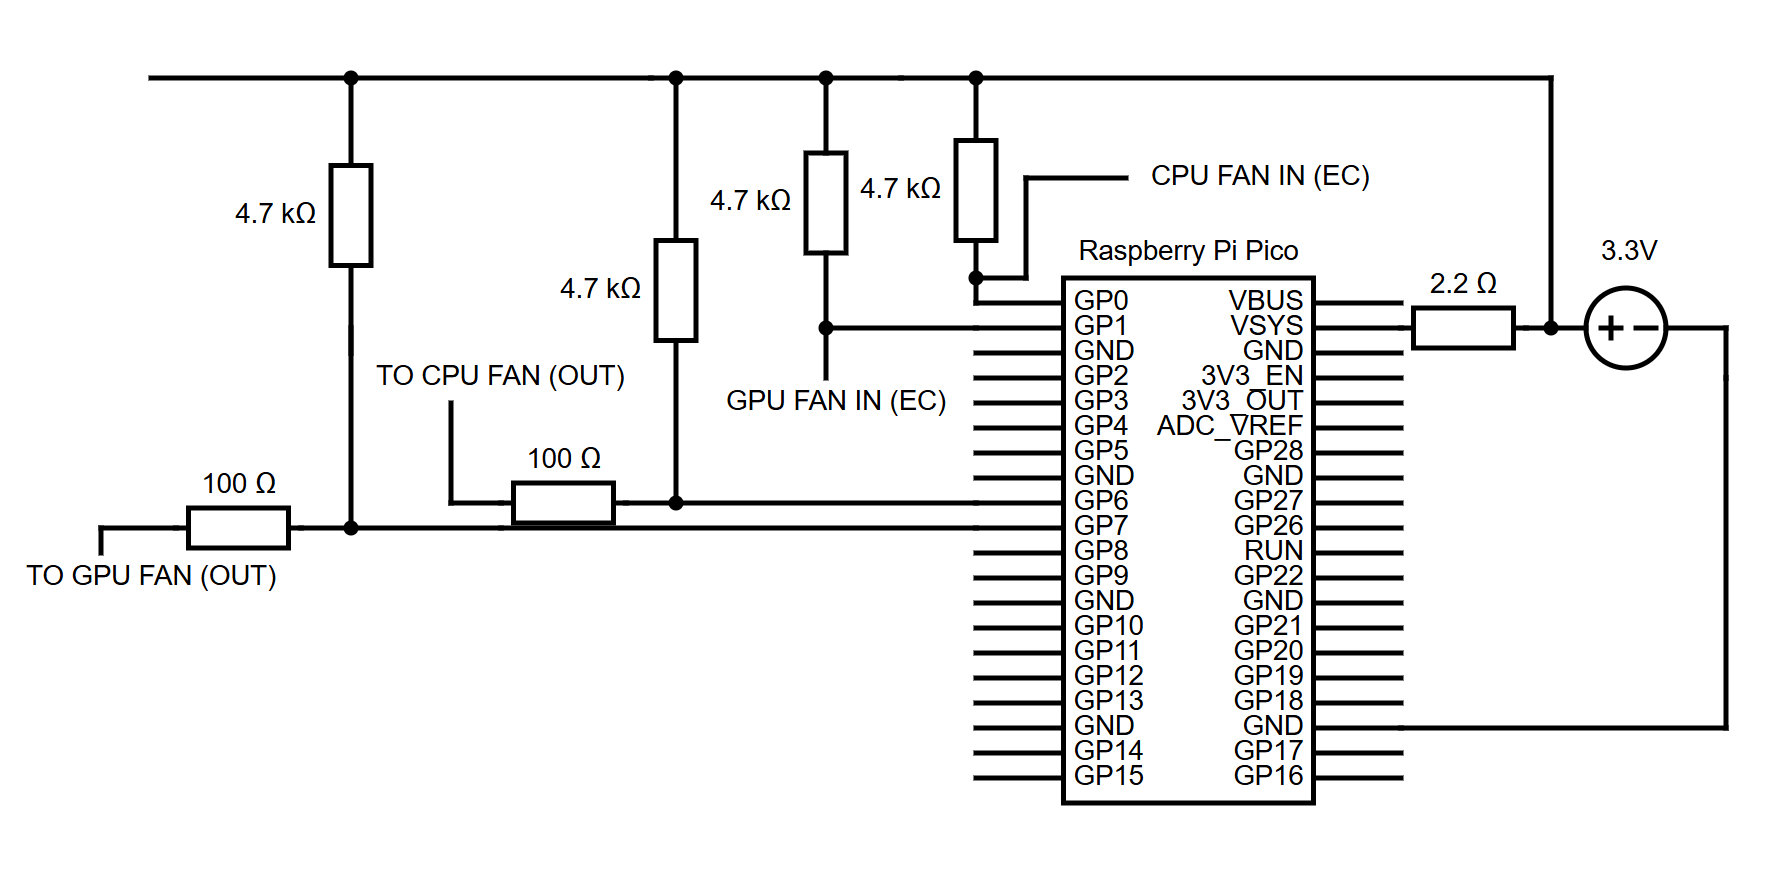
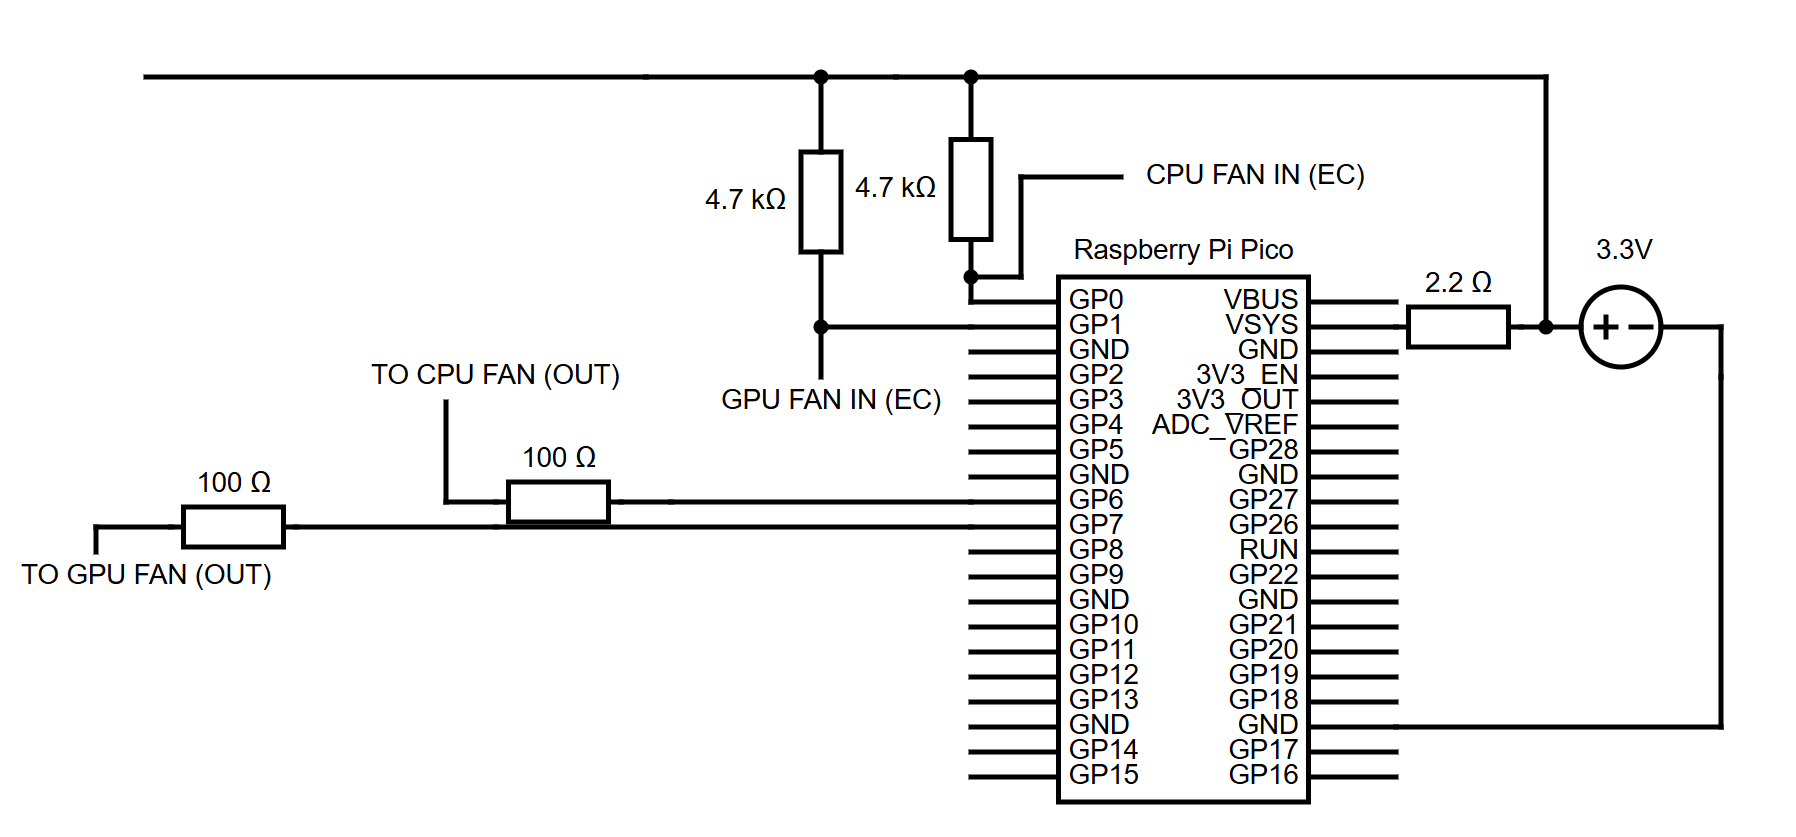
Readme.md changes

Changed region(s): [[0.0, 0.0621, 0.9944, 0.963]]

diff --git a/README.md b/README.md
@@ -15,7 +15,10 @@ The idea is to use our controller as an intermediate and isolate the PWM output 
 # Required electronics parts:
 1x Rasperry pico (in our case raspberry pico 2, you can possibly use other versions too with slight or no modifications)  
 1x 2.2Ω smd 0403 resistor (acting as a power fuse to protect laptop circuitry in case raspberry goes bad)  
-2x 4.7KΩ smd 0403 resistors (for the 2 new pull-up PWMs)  
 Insulated wire for powering and routing the raspberry pico.  
   
 The other parts are already included on the motherboard (2x 4.7ΚΩ are used as pull-up resistors and 2x 100Ω are used for current limiting to the fan.)  
+
+## How to connect?:
+Move the 2x100Ω resistors that connect the fans' PWM signals to the EC so 1 end is connected to the fan and the other end leave it floating.  
+Then connect the 2 floating ends to the outputs of our Raspberry. Connect the outputs of the EC to the inputs of our Raspberry.
